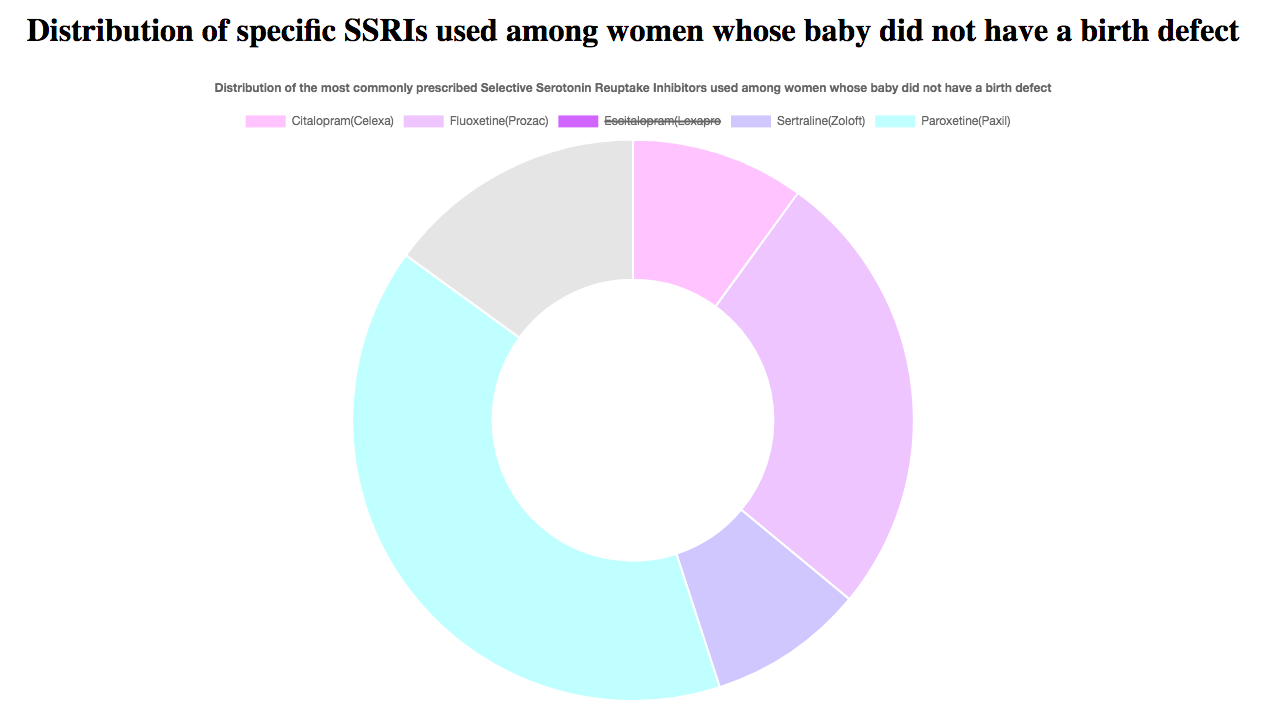
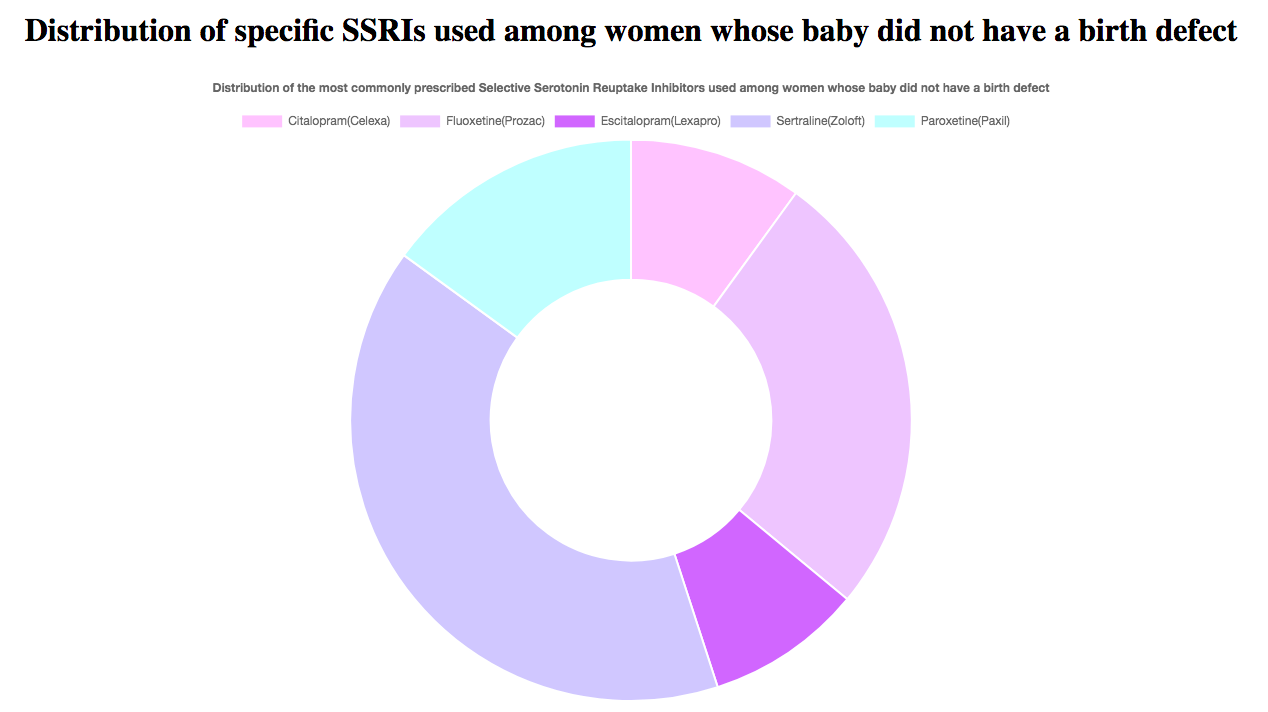
Adds correct screenshot

Changed region(s): [[0.1845, 0.0934, 0.8304, 0.9958], [0.0, 0.0311, 0.9842, 0.0622]]

diff --git a/ssris/ssris.js b/ssris/ssris.js
@@ -6,7 +6,7 @@ new Chart(document.getElementById("graph1"), {
             {
               label: "Distribution of the most commonly prescribed Selective Serotonin Reuptake Inhibitors used among women whose baby did not have a birth defect",
               backgroundColor: ["#ffccff", "#e6ccff", "#bf80ff", "#ccccff", "#ccffff"],
-              data: [0.1, 0.26, ,0.09, 0.4, 0.15]
+              data: [0.1, 0.26, 0.09, 0.4, 0.15]
             }
           ]
         },
